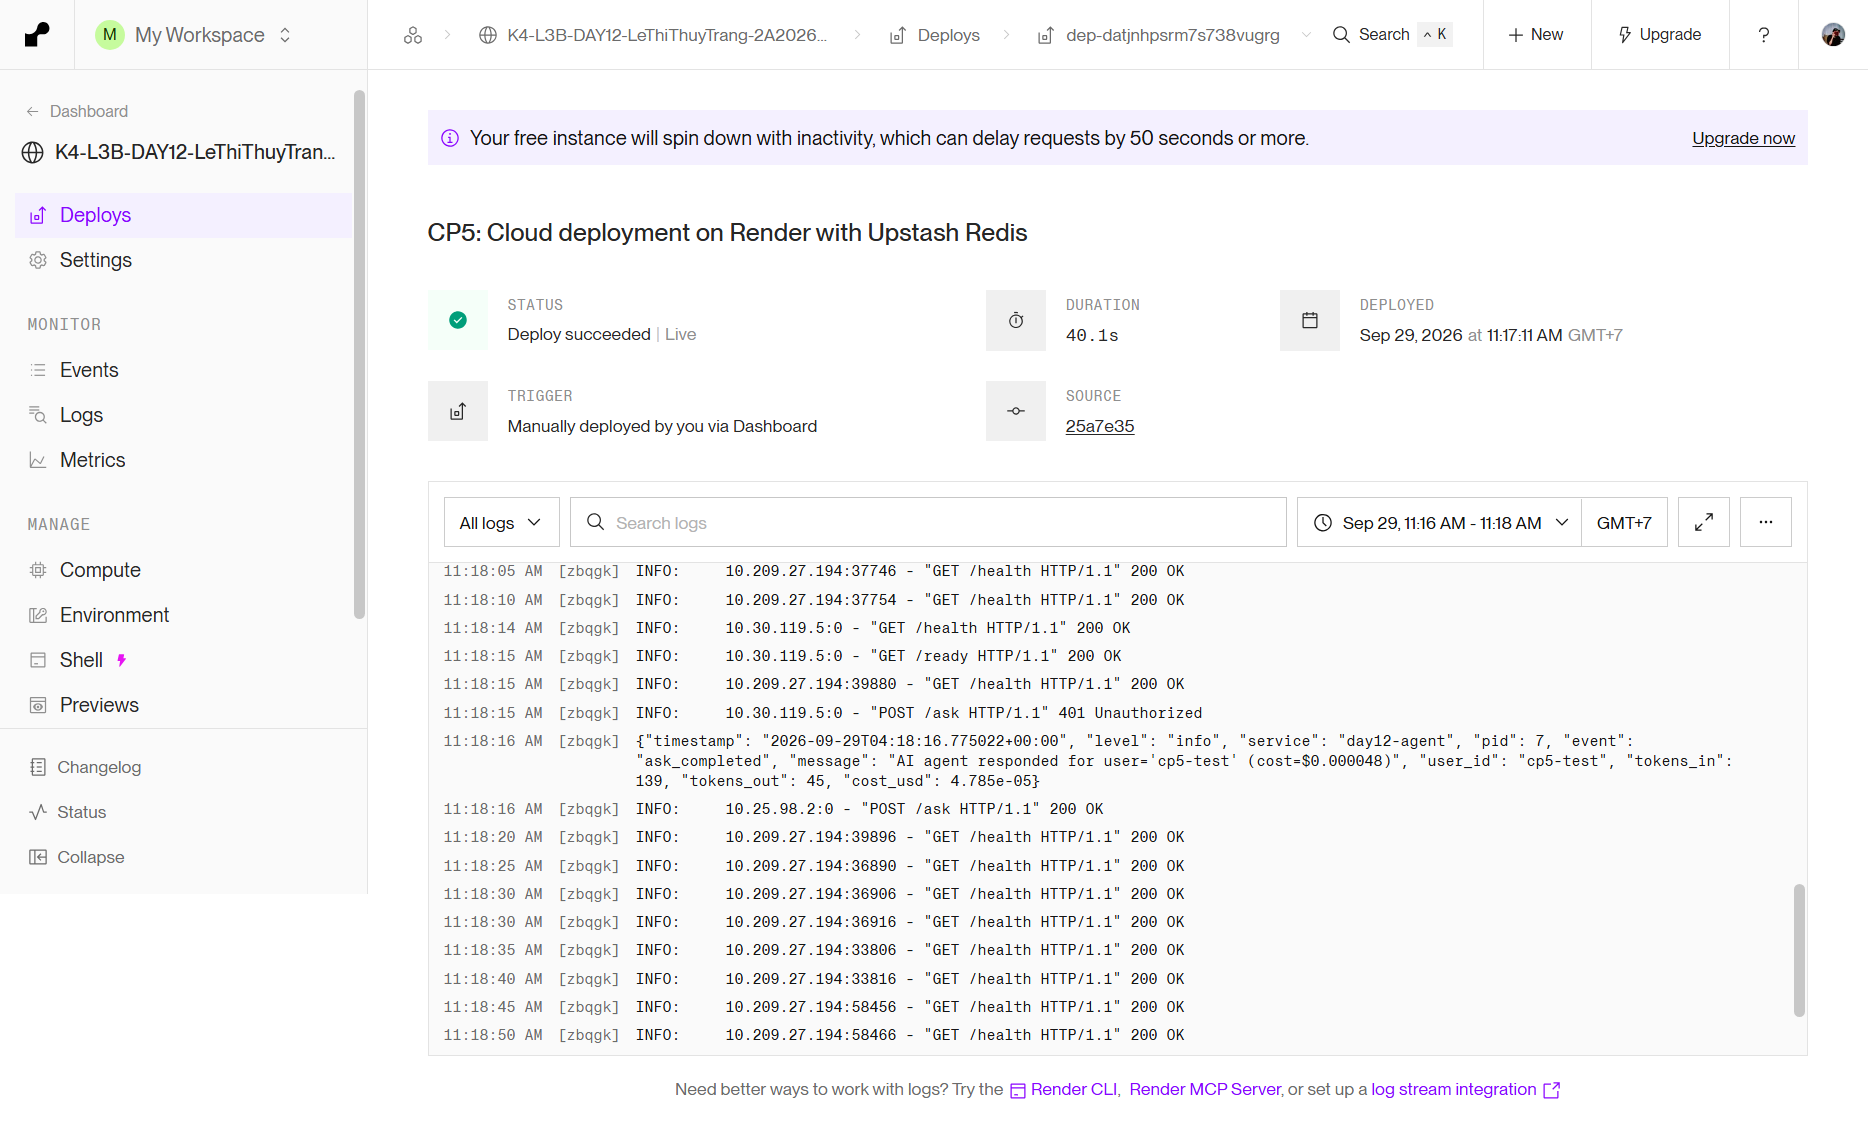
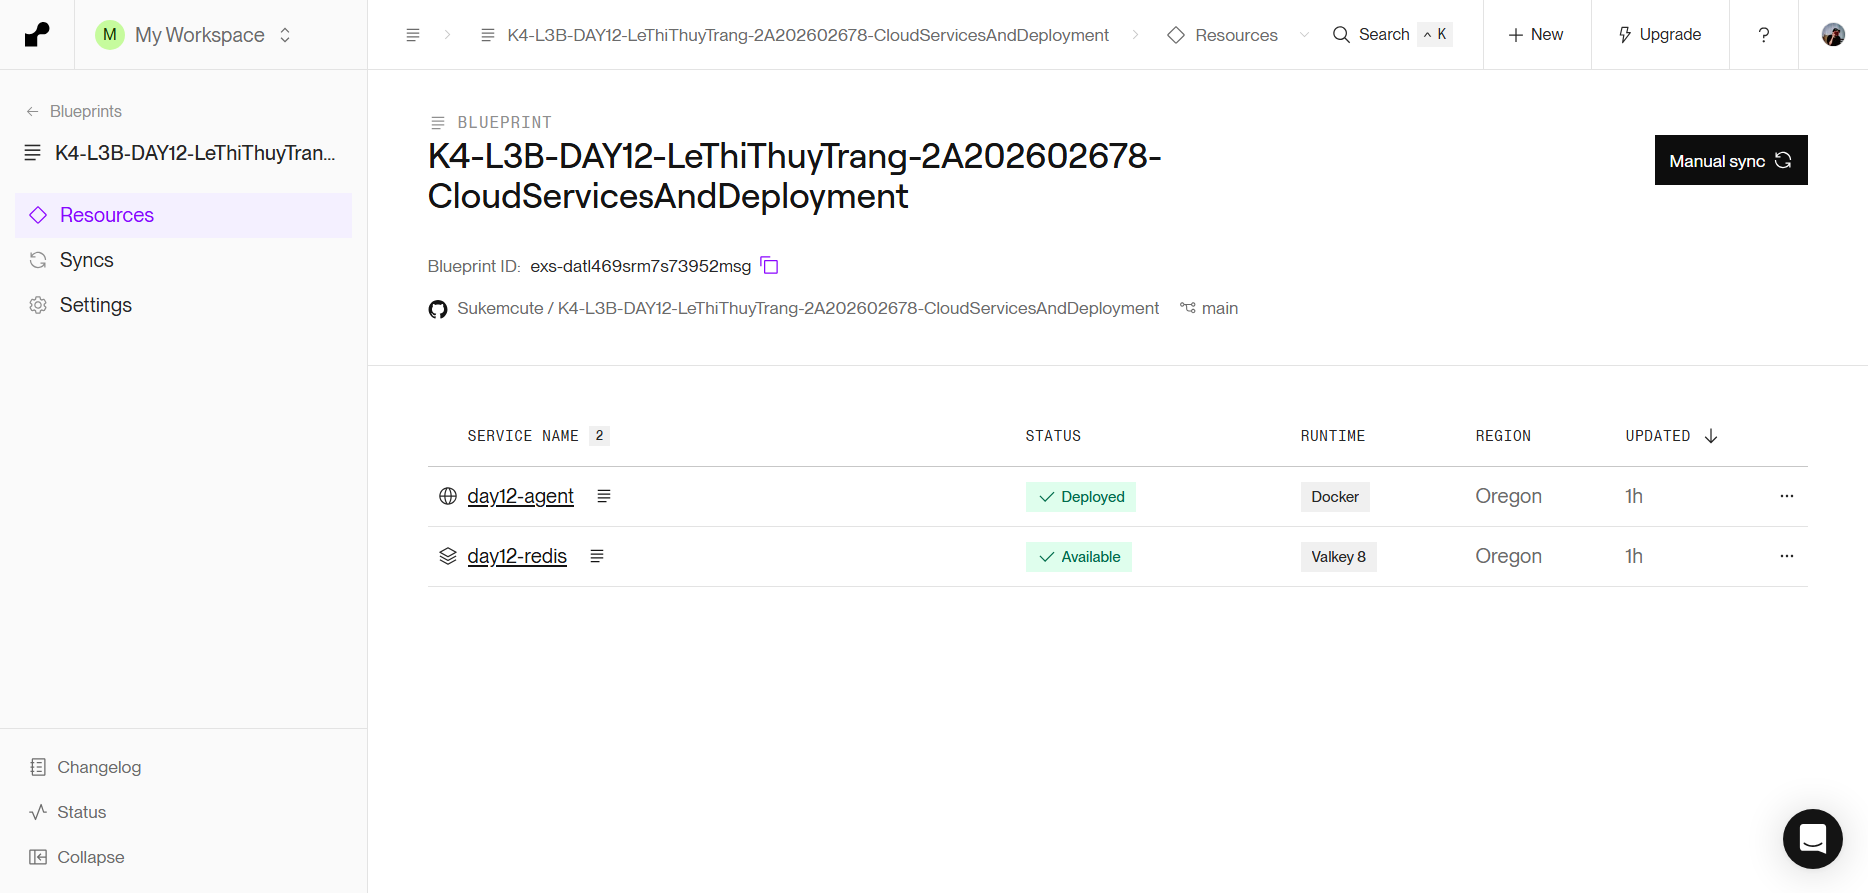
docs: add dashboard screenshot and update README

diff --git a/README.md b/README.md
@@ -1,5 +1,7 @@
 # K4 — Level 3B, Ngày 12: Hạ Tầng Cloud & Deployment (240 phút)
 
+![CI](https://github.com/Sukemcute/K4-L3B-DAY12-LeThiThuyTrang-2A202602678-CloudServicesAndDeployment/actions/workflows/ci.yml/badge.svg)
+
 Đưa một AI agent từ `localhost:8000` lên một địa chỉ công khai mà người khác
 gọi được, có bảo mật, có giới hạn chi phí, và không sập khi bạn deploy bản mới.
 
